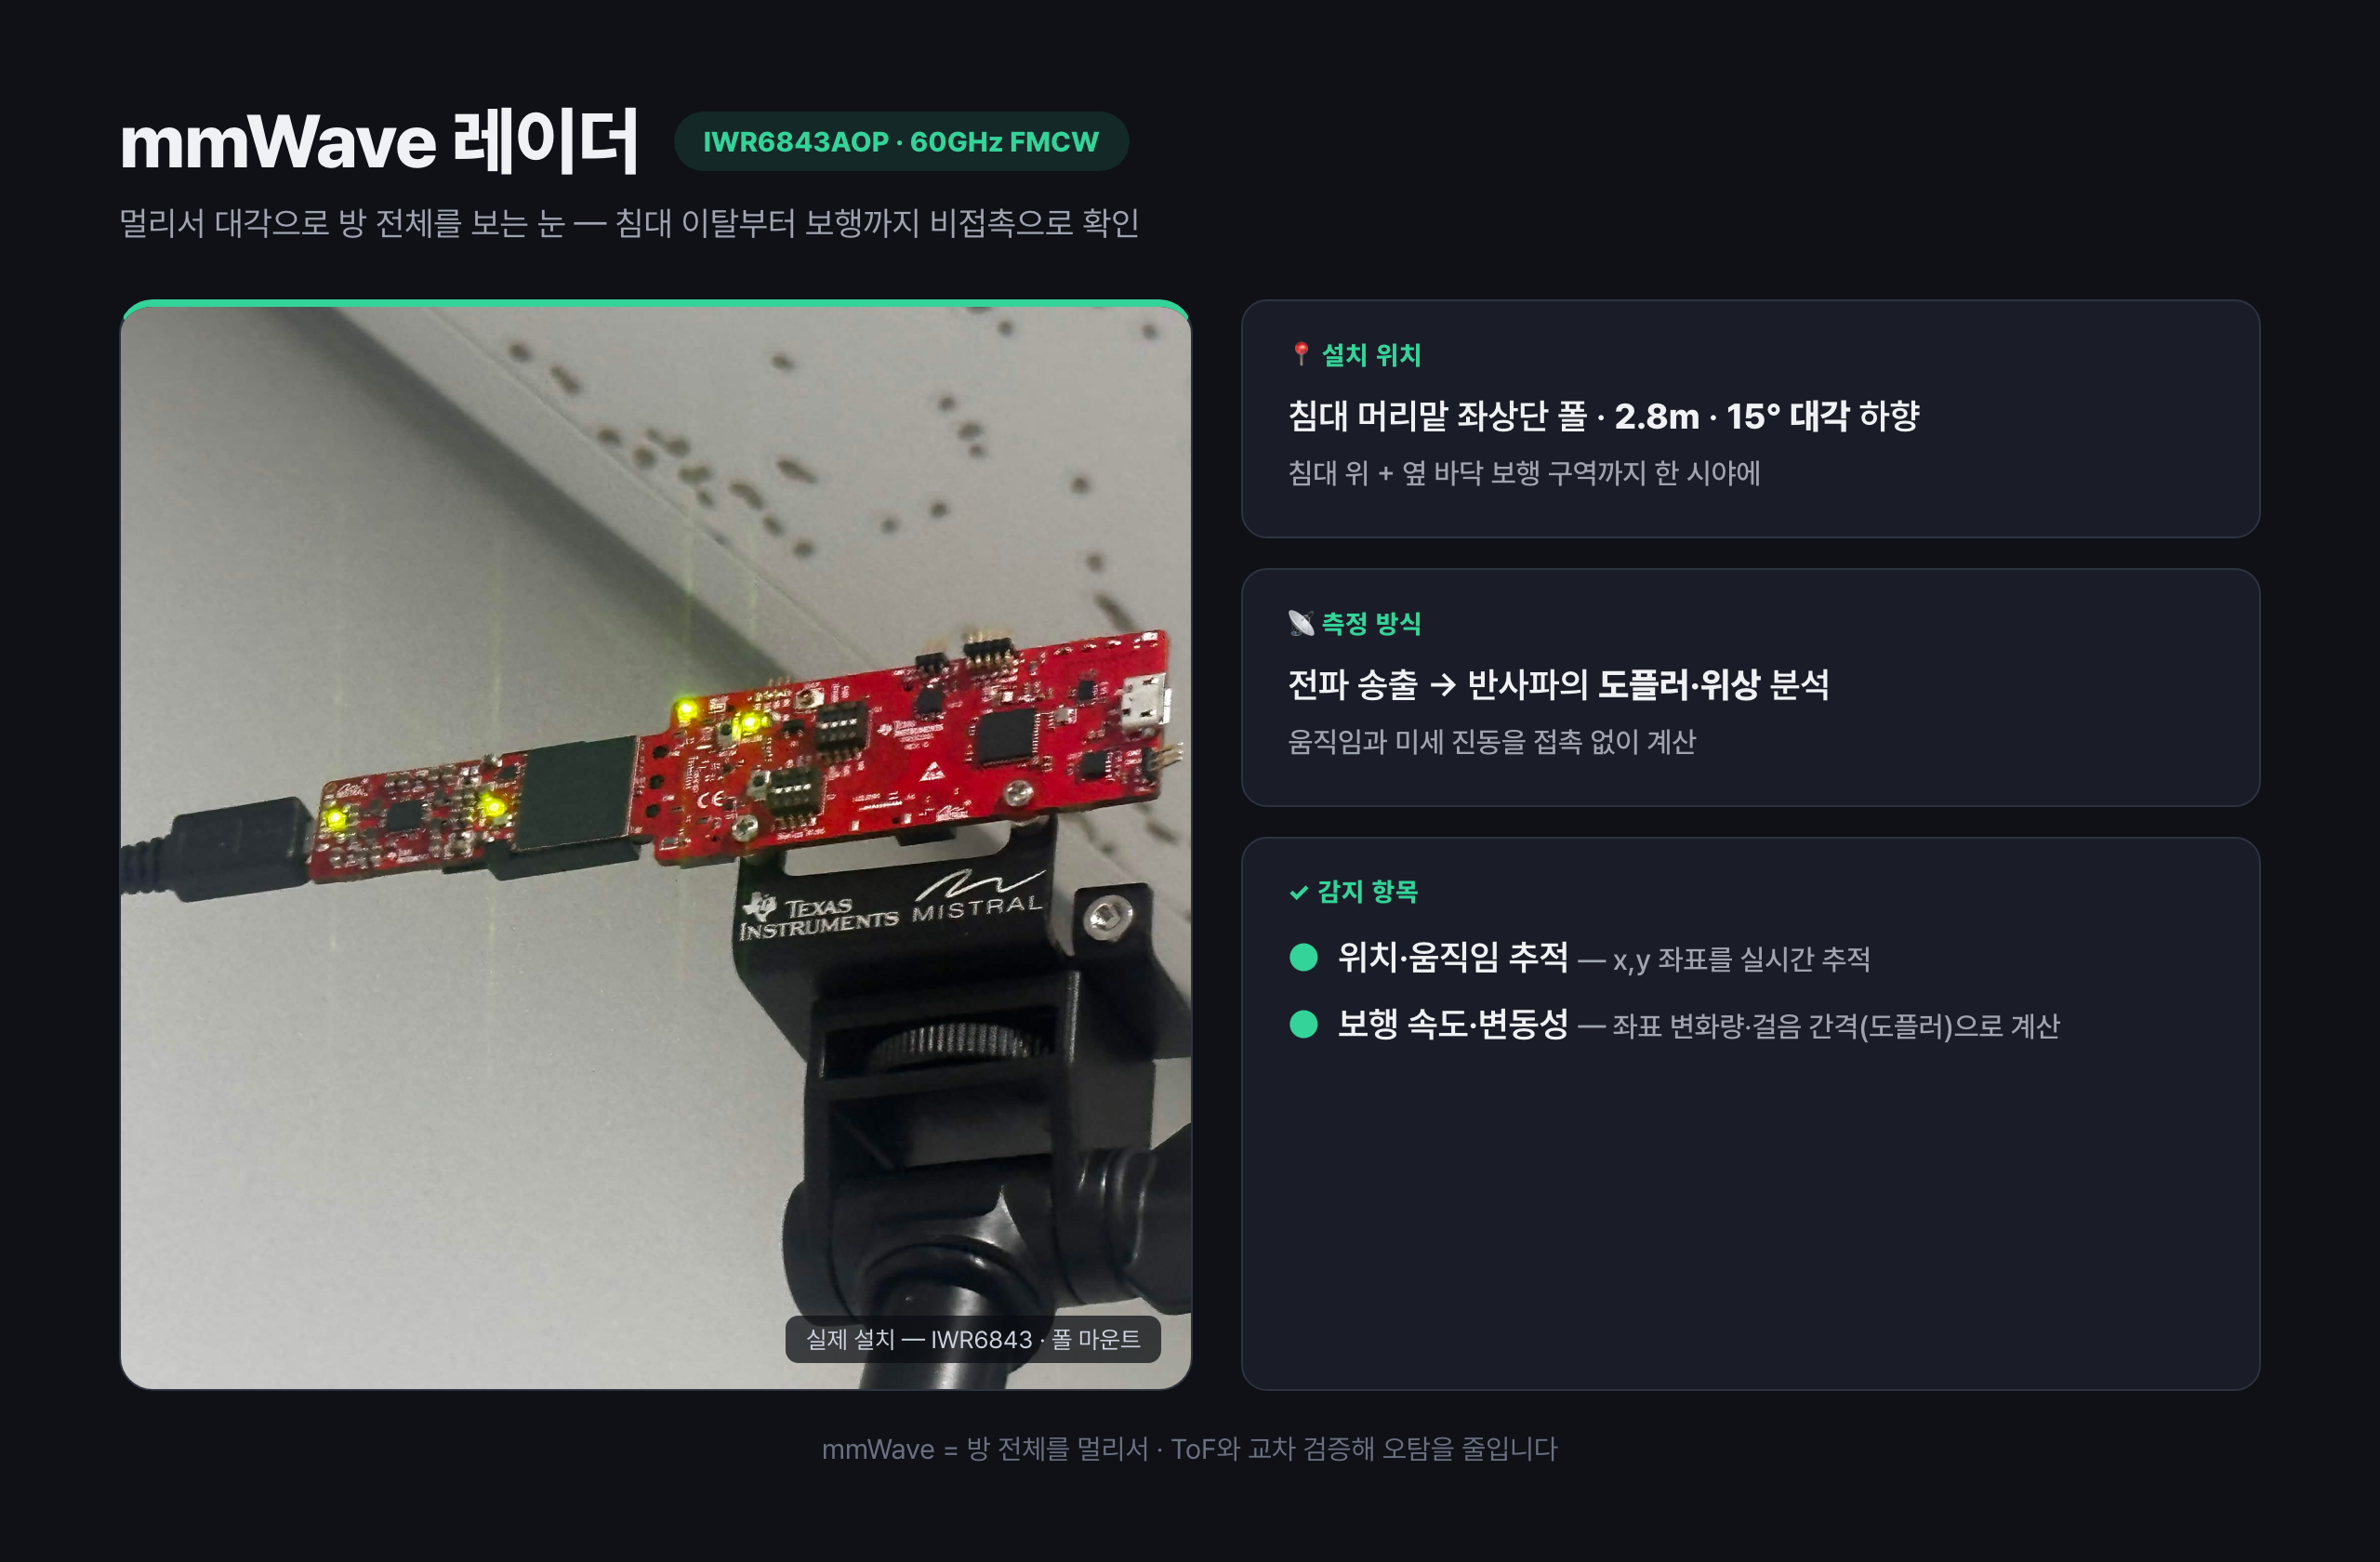
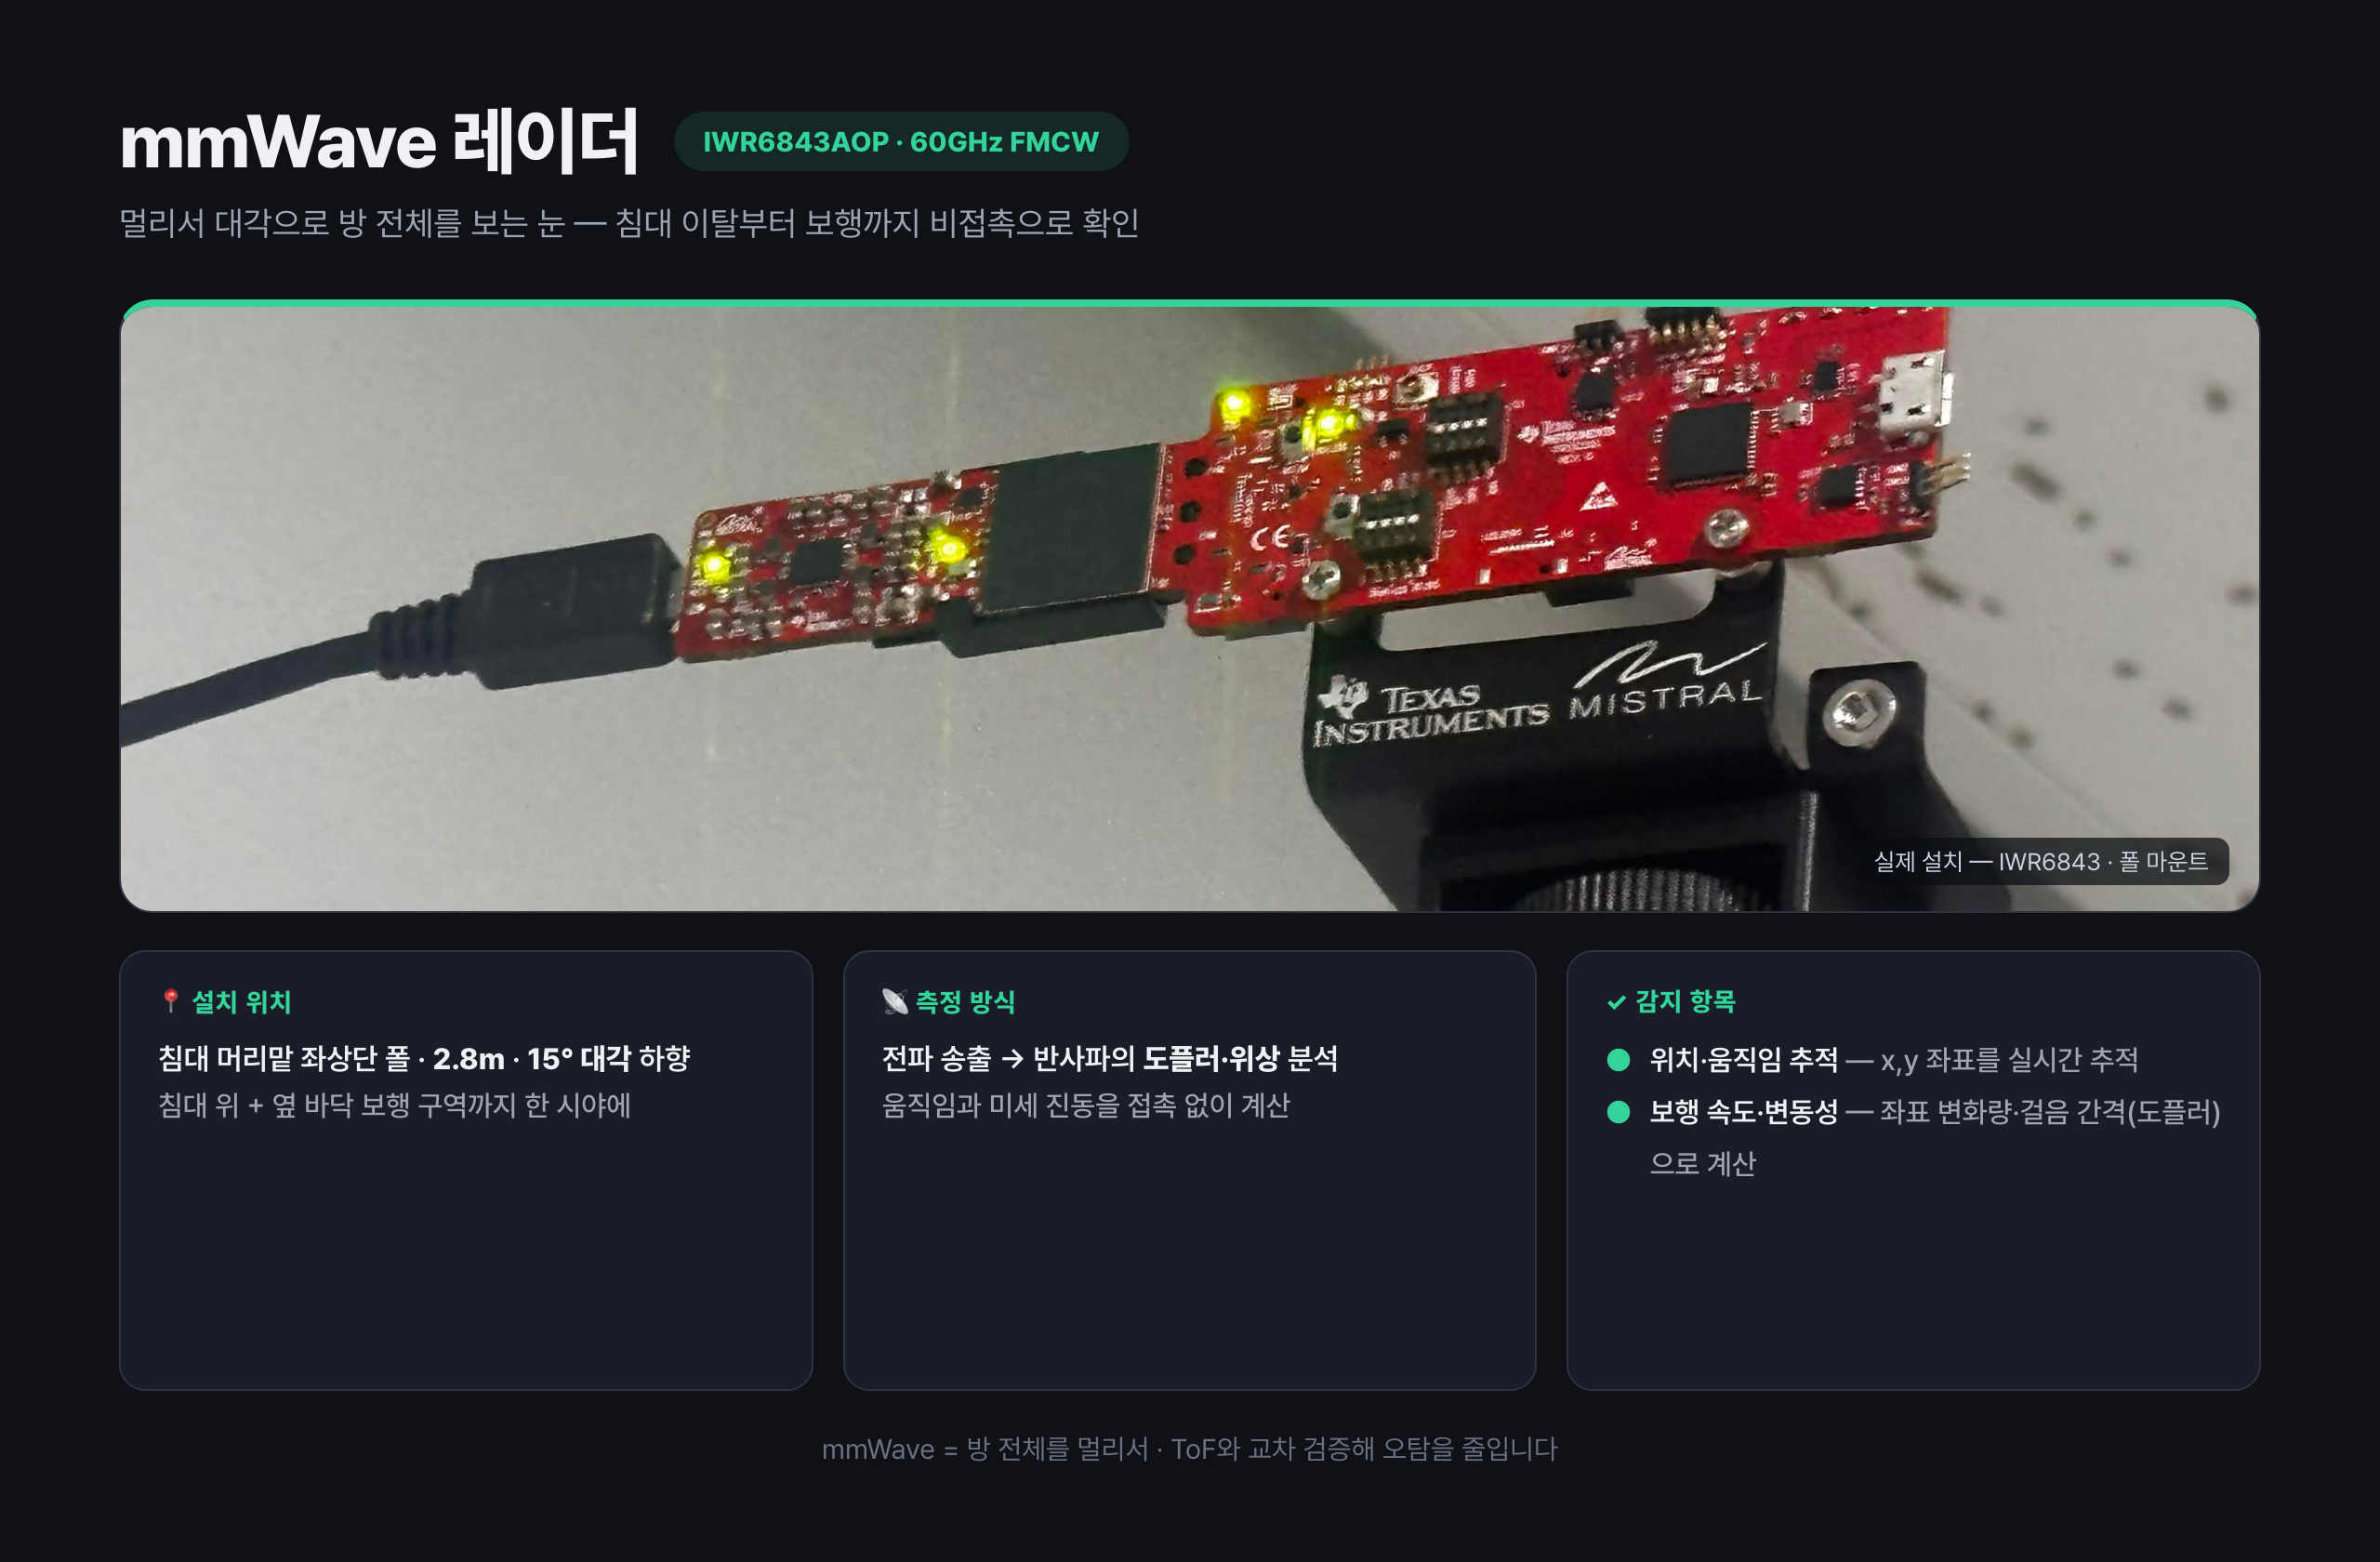
docs(piuda): 센서 세부 카드 레이아웃 — 사진 상단 · 설명 3열 하단으로 재구성
Claude-Session: https://claude.ai/code/session_01S8yxnUuux86mygCHFJzXQR

diff --git a/piuda/index.html b/piuda/index.html
@@ -844,8 +844,8 @@ function switchLayout5(id) {
 (function(){
     const GAL=[
         {src:'sensor3d.png?v=2', cap:'센서 3D 배치 — 요양병원 단독실 (mmWave 폴 · ToF 머리맡/발치)'},
-        {src:'sensor_mmwave.png?v=3', cap:'mmWave 레이더 — IWR6843AOP · 위치·보행·심박·호흡'},
-        {src:'sensor_tof.png?v=2', cap:'ToF 센서 — VL53L5CX · 침대 가장자리·이탈 전조'}
+        {src:'sensor_mmwave.png?v=4', cap:'mmWave 레이더 — IWR6843AOP · 위치·보행·심박·호흡'},
+        {src:'sensor_tof.png?v=3', cap:'ToF 센서 — VL53L5CX · 침대 가장자리·이탈 전조'}
     ];
     let idx=0;
     const lb=document.getElementById('lb'), img=document.getElementById('lbImg'),